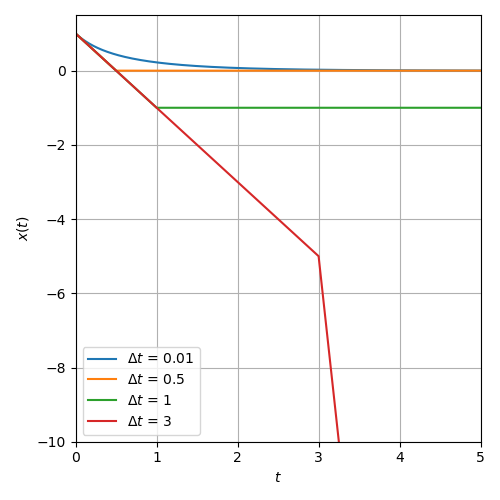
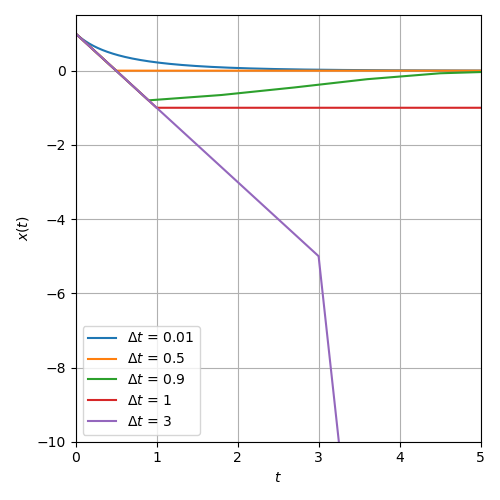
5o updated

diff --git a/LAB6_general.py b/LAB6_general.py
@@ -436,7 +436,7 @@ plt.close()
 # 5o
 
 # parameter values
-stepsizes = [0.01, 0.5, 1, 3]
+stepsizes = [0.01, 0.5, 0.9, 1, 3]
 
 # set up figure
 fig, ax = plt.subplots(1, 1, figsize=[5, 5])
